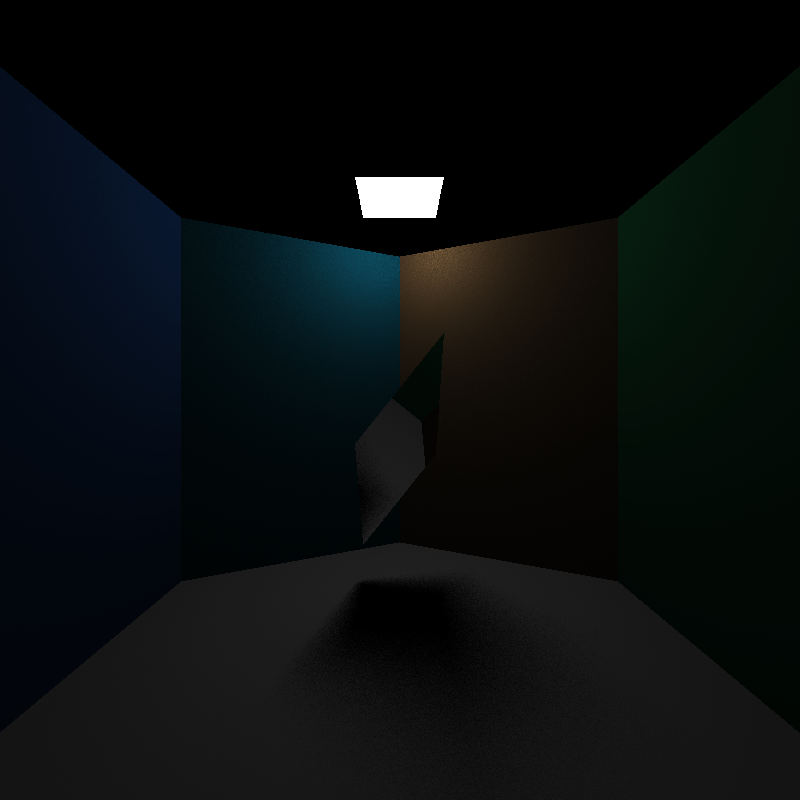
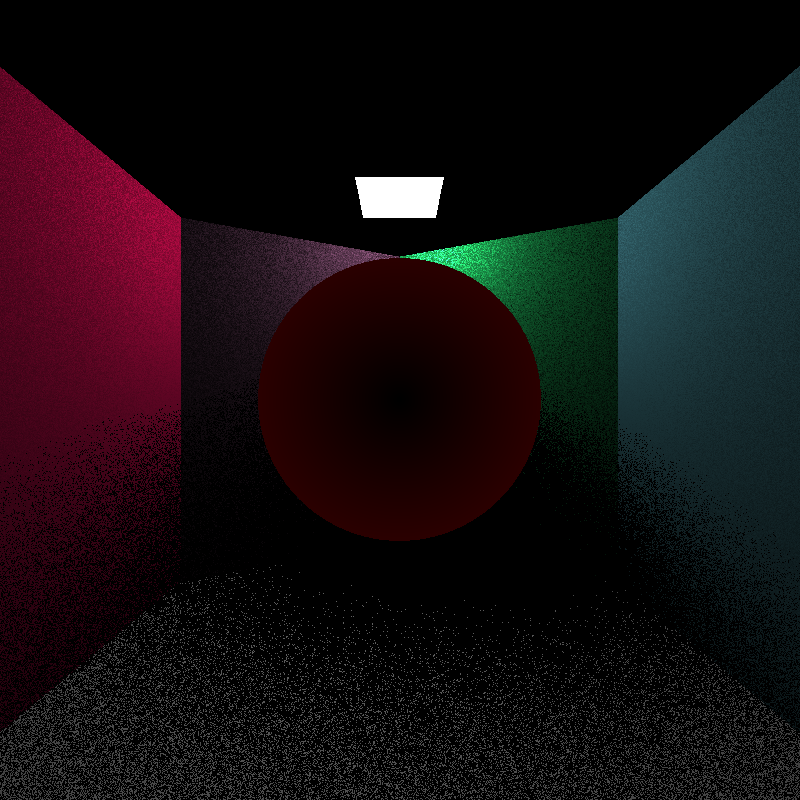
Tried to fix normals of pheres but something is off...

diff --git a/geometry/Sphere.java b/geometry/Sphere.java
@@ -44,12 +44,14 @@ public class Sphere extends Geometry {
     }
 
     @Override
-    public boolean checkIntersect(Vertex rayOrigin, Ray ray,Vertex outIntersectionPoint) {
-        return MollerTrumbore.rayIntersectsSphere(rayOrigin, ray, this, outIntersectionPoint);
+    public boolean checkIntersect(Vertex rayOrigin, Ray ray,Vertex _outIntersectionPoint) {
+       
+        return MollerTrumbore.rayIntersectsSphere(rayOrigin, ray, this, _outIntersectionPoint);
+       
     }
     
     public Vector3d getNormal(Vertex pointOfIntersection) {
-        return pointOfIntersection.CreateEdge(this.centerPosition).norm();
+        return pointOfIntersection.add(centerPosition).CreateEdge(centerPosition).norm();
     }
 
     @Override
@@ -63,77 +65,78 @@ public class Sphere extends Geometry {
         return false;
     }
 
-    @Override
-    public ColorRGB calculateDirectLight(Light LightSource, Vertex pointOFIntersection, int nrShadowRays,ArrayList<Geometry> sceneObjects) {
-        int shadowRays = 1;
-        // var q = u * ( v1 - v0) + v * (v2 - v0);
+   
+    // public ColorRGB calculateDirectLight(Light LightSource, Vertex pointOFIntersection, int nrShadowRays,ArrayList<Geometry> sceneObjects) {
+    //     System.out.println("fel cDL");
+    //     int shadowRays = 1;
+    //     // var q = u * ( v1 - v0) + v * (v2 - v0);
     
-        ColorRGB L = new ColorRGB(0, 0, 0);
-        ColorRGB Ld = new ColorRGB(0, 0, 0);
+    //     ColorRGB L = new ColorRGB(0, 0, 0);
+    //     ColorRGB Ld = new ColorRGB(0, 0, 0);
     
-        Vector3d edge1 = LightSource.v2.CreateEdge(LightSource.v1);
-        Vector3d edge2 = LightSource.v3.CreateEdge(LightSource.v1);
+    //     Vector3d edge1 = LightSource.v2.CreateEdge(LightSource.v1);
+    //     Vector3d edge2 = LightSource.v3.CreateEdge(LightSource.v1);
     
-        // float A = glm::length(glm::cross(v1 - v0, v3 - v0));
-        double LightArea = Maths.crossProduct(edge1, edge2).vectorLength();
+    //     // float A = glm::length(glm::cross(v1 - v0, v3 - v0));
+    //     double LightArea = Maths.crossProduct(edge1, edge2).vectorLength();
     
-        for (int i = 0; i < shadowRays; i++) {
-            // random numbers
-            double u = new Random().nextDouble();
-            double v = new Random().nextDouble();
+    //     for (int i = 0; i < shadowRays; i++) {
+    //         // random numbers
+    //         double u = new Random().nextDouble();
+    //         double v = new Random().nextDouble();
     
-            // edges of the lightsource
-            Vector3d e1 = LightSource.v2.CreateEdge(LightSource.v1).Multiply(u);
-            Vector3d e2 = LightSource.v3.CreateEdge(LightSource.v1).Multiply(v);
-            Vector3d summedVector = e1.add(e2);
-            Vertex yi = LightSource.v1.translate(summedVector);
+    //         // edges of the lightsource
+    //         Vector3d e1 = LightSource.v2.CreateEdge(LightSource.v1).Multiply(u);
+    //         Vector3d e2 = LightSource.v3.CreateEdge(LightSource.v1).Multiply(v);
+    //         Vector3d summedVector = e1.add(e2);
+    //         Vertex yi = LightSource.v1.translate(summedVector);
     
-            // float A = glm::length(glm::cross(v1 - v0, v3 - v0));
+    //         // float A = glm::length(glm::cross(v1 - v0, v3 - v0));
     
-            // Disnans mellan intersection point och ljuskällan
-            // sk är vectorn mellan ljus och puntk
-            // di är distansen mellan di = yi - x
+    //         // Disnans mellan intersection point och ljuskällan
+    //         // sk är vectorn mellan ljus och puntk
+    //         // di är distansen mellan di = yi - x
 
             
     
-            Vector3d di = pointOFIntersection.CreateEdge(yi).invers();
+    //         Vector3d di = pointOFIntersection.CreateEdge(yi).invers();
             
-            //test
+    //         //test
 
             
-            double abs_di = Math.abs(di.vectorLength());
+    //         double abs_di = Math.abs(di.vectorLength());
     
-            // eventuellt "-" på sk
-            // cos(omegax) = Nx * di / ||di||
-            // cos(omegay) = Ny * di / ||di||
-            // TODO - fixa normal för triangel
-            double cosOmegax = Maths.dotProduct(di.Multiply(1 / abs_di), this.getNormal(pointOFIntersection));
-            // TODO - varför fungerar det bara utan negativt tecken i formel nedan?
-            double cosOmegay = Maths.dotProduct(di.Multiply(1 / abs_di), LightSource.normal);
+    //         // eventuellt "-" på sk
+    //         // cos(omegax) = Nx * di / ||di||
+    //         // cos(omegay) = Ny * di / ||di||
+    //         // TODO - fixa normal för triangel
+    //         double cosOmegax = Maths.dotProduct(di.Multiply(1 / abs_di), this.getNormal(pointOFIntersection));
+    //         // TODO - varför fungerar det bara utan negativt tecken i formel nedan?
+    //         double cosOmegay = Maths.dotProduct(di.Multiply(1 / abs_di), LightSource.normal);
 
-            //NY DEL FÖR DIRECT LIGHT SFÄR. MEN LJUSET BORDE INTE KUNNA GLIDA ÖVER EKVATORN FÖR SFÄREN
-            //SE ÖVER
-            if(Maths.dotProduct(di, normal)> 0)
-            {
-                L= L.add(this.color.mult((Maths.dotProduct(di, normal)) / (abs_di * abs_di)));
-            }
-            else{
-                L= L.add(this.color.mult(0));
-            }
+    //         //NY DEL FÖR DIRECT LIGHT SFÄR. MEN LJUSET BORDE INTE KUNNA GLIDA ÖVER EKVATORN FÖR SFÄREN
+    //         //SE ÖVER
+    //         if(Maths.dotProduct(di, normal)> 0)
+    //         {
+    //             L= L.add(this.color.mult((Maths.dotProduct(di, normal)) / (abs_di * abs_di)));
+    //         }
+    //         else{
+    //             L= L.add(this.color.mult(0));
+    //         }
 
             
             
           
     
-        }
+    //     }
     
-        Ld = L.mult(LightArea / (Math.PI *shadowRays));
+    //     Ld = L.mult(LightArea / (Math.PI *shadowRays));
         
-        // if (!this->isVisible(shadowRay)) Vk = 0.0f;
-        // else Vk = 1.0f;
+    //     // if (!this->isVisible(shadowRay)) Vk = 0.0f;
+    //     // else Vk = 1.0f;
     
-        return Ld.mult(2);
-    }
+    //     return Ld.mult(2);
+    // }
     
 
     

diff --git a/geometry/Geometry.java b/geometry/Geometry.java
@@ -9,7 +9,7 @@ import utils.*;
 
 public class Geometry {
 
-  public double reflectCoeff = 0.8;
+  public double reflectCoeff = 0.2;
 
   public ColorRGB color = new ColorRGB();
 
@@ -89,6 +89,7 @@ public class Geometry {
         // Disnans mellan intersection point och ljuskällan
         // sk är vectorn mellan ljus och puntk
         // di är distansen mellan di = yi - x
+    
 
         
         Vector3d di = pointOFIntersection.CreateEdge(yi);
@@ -98,23 +99,26 @@ public class Geometry {
         // cos(omegax) = Nx * di / ||di||
         // cos(omegay) = Ny * di / ||di||
         // TODO - fixa normal för triangel
-        double cosOmegax = Maths.dotProduct(di.Multiply(1 / abs_di), this instanceof Sphere ? this.getNormal(pointOFIntersection) : this.getNormal());
-        double cosOmegay = -Maths.dotProduct(di.Multiply(1 / abs_di), LightSource.normal);
+        // double cosOmegax = Maths.dotProduct(di.Multiply(1 / abs_di), this instanceof Sphere ? this.getNormal(pointOFIntersection) : this.getNormal());
+        // double cosOmegay = -Maths.dotProduct(di.Multiply(1 / abs_di), LightSource.normal);
 
         //Testar med dot approachen, här är den gamla ifall vi vill gå tillbaka till den :P 
        // L = L.add(this.color.mult((cosOmegax * cosOmegay) / (abs_di * abs_di)));
 
        //Något är lurt 
-       normal = this.getNormal();
+       this.setNormal(this instanceof Sphere ? this.getNormal(pointOFIntersection).invers() : this.getNormal());
        Ray shadowRay = new Ray(yi,di);
        
-        Double isVis = 1.0;
+        double isVis = 1.0;
 
     
         if(!isVisible(shadowRay, sceneObjects)){
           isVis = 0.0;
+        
+          
           // L = new ColorRGB(1,0,0);
           // break;
+          
           
         }
 
@@ -127,7 +131,7 @@ public class Geometry {
     // if (!this->isVisible(shadowRay)) Vk = 0.0f;
     // else Vk = 1.0f;
 
-    return Ld.mult(1);
+    return Ld.mult(3);
 }
 
 public void setMaterial(Material material) {
@@ -140,16 +144,28 @@ public void setMaterial(Material material) {
 //VERKAR INTE FUNGERA 
 // på något sett så missar den intersecten eller något... 
 public boolean isVisible(Ray shadowRay, ArrayList<Geometry> sceneObjects ){
+  Vertex pointOnSphere = shadowRay.start.translate(shadowRay.dir);
+  
+  if (pointOnSphere.z<0 && this instanceof Sphere){
+   // System.out.println("hej");
+  }
 
-  Double distance = Math.abs(shadowRay.dir.vectorLength());
+  
+  double distance = Math.abs(shadowRay.dir.vectorLength());
 
-  Vertex intPoint = new Vertex();
-  Double minDist = 1000.0;
+  
+  
+  double minDist = 1000.0;
   shadowRay.dir = shadowRay.dir.norm();
+
+
+  
 
   for (int i = 0; i < sceneObjects.size(); i++) {
     Geometry obj = sceneObjects.get(i);
+    Vertex intPoint = new Vertex();
     //VI KANSKE SKA TA IN ETT NYTT VÄRDE RAY START?
+
       if (obj.checkIntersect(shadowRay.start, shadowRay, intPoint)){
         //System.out.println("vi intersektar med något");
         
@@ -160,8 +176,10 @@ public boolean isVisible(Ray shadowRay, ArrayList<Geometry> sceneObjects ){
 
   }
 
+ 
 
-  if (minDist+0.5 <distance) 
+
+  if (minDist+0.005 < distance) 
   {
     
     return false;}

diff --git a/scene/Camera.java b/scene/Camera.java
@@ -58,14 +58,16 @@ public class Camera {
 
   public void followRay(Scene scene, Vertex currentPoint, Ray currentRay, Vertex outIntersectionPoint){
 
-    //testing max value of direct light
-    ColorRGB test = new ColorRGB();
 
             for (int i = 0; i < scene.sceneObjects.size(); i++) {
           Geometry obj = scene.sceneObjects.get(i);
+          Vertex outPoint = new Vertex();
           if (
-            obj.checkIntersect(currentPoint, currentRay, outIntersectionPoint)
+            obj.checkIntersect(currentPoint, currentRay, outPoint)
           ) {
+
+            //skickar vidare intersectionpointen
+            outIntersectionPoint.set(outPoint);
 
             // if (obj instanceof Sphere) {
             //   currentRay.rayColor = obj.color;
@@ -82,19 +84,25 @@ public class Camera {
             if (obj.material.type == MaterialType.MIRROR) {
               Ray reflectedRay = obj.bounceRay(
                 currentRay,
-                outIntersectionPoint
+                outPoint
               );
 
-              Vertex pointOfReflection = outIntersectionPoint;
+              Vertex pointOfReflection = outPoint;
 
-              followRay(scene, pointOfReflection, reflectedRay, outIntersectionPoint);
+              followRay(scene, pointOfReflection, reflectedRay, outPoint);
             }
             
 
             else {
-              currentRay.rayColor = obj.calculateDirectLight(scene.light, outIntersectionPoint, 20,scene.sceneObjects);
-              if(currentRay.rayColor.r > test.r){
-                test = new ColorRGB(currentRay.rayColor.r,currentRay.rayColor.g,currentRay.rayColor.b);
+              
+              if (obj instanceof Sphere) {
+                Vector3d normalizedIntersect = obj.getNormal(outPoint);
+          
+                currentRay.rayColor = new ColorRGB(Math.abs(normalizedIntersect.x),0,0);
+                // outIntersectionPoint
+              }
+              else{
+              currentRay.rayColor = obj.calculateDirectLight(scene.light, outPoint, 1,scene.sceneObjects);
               }
             }
            

diff --git a/utils/MollerTrumbore.java b/utils/MollerTrumbore.java
@@ -111,7 +111,7 @@ public class MollerTrumbore {
     Sphere inSphere,
     Vertex outIntersectionPoint
   ){
-
+   
     double b, c, x, d1, d2, d;
 
     double c1, c2, c3, arg;
@@ -123,6 +123,8 @@ public class MollerTrumbore {
     // c1 = D dot D
     // c2 = 2D * (S-C)
     // c3 = (S-C) * (SC)
+
+    rayVector.dir = rayVector.dir.norm();
 
     c1 = Maths.dotProduct(rayVector.dir, rayVector.dir);
     c2 = Maths.dotProduct(rayVector.dir.Multiply(2), rayVector.start.CreateEdge(inSphere.centerPosition));
@@ -143,16 +145,17 @@ public class MollerTrumbore {
 
     // One solution
     else if (arg < EPSILON) {
-       d1 = -(c2 / (2.0 * c1)) + Math.sqrt(arg);
+       d1 = -(c2 + Math.sqrt(arg)) / (2.0 * c1);
        d = d1;
-       outIntersectionPoint = rayVector.start.translate(rayVector.dir).mult(d);
+       // outIntersectionPoint = rayVector.start.translate(rayVector.dir).mult(d);
+       outIntersectionPoint.set(rayVector.start.translate(rayVector.dir).mult(d));
        return true;
     };
 
     
     // Two solutions
-    d1 = -(c2 / (2.0 * c1)) + Math.sqrt(arg);
-	  d2 = -(c2 / (2.0 * c1)) - Math.sqrt(arg);
+    d1 = -(c2 + Math.sqrt(arg)) / (2.0 * c1);
+	  d2 =-(c2 - Math.sqrt(arg)) / (2.0 * c1);
 
     if (d2 > d1) {
       d = d1;
@@ -171,7 +174,8 @@ public class MollerTrumbore {
 
     //Check with distance if we got a hit
 	  if (d < EPSILON || d > 1000.0f) return false;
-	  outIntersectionPoint = rayVector.start.translate(rayVector.dir).mult(d);
+	  // outIntersectionPoint = rayVector.start.translate(rayVector.dir).mult(d);
+    outIntersectionPoint.set(rayVector.start.translate(rayVector.dir).mult(d));
 
     Vector3d normal = outIntersectionPoint.CreateEdge(inSphere.centerPosition).norm();
     inSphere.setNormal((normal));

diff --git a/scene/Scene.java b/scene/Scene.java
@@ -114,9 +114,9 @@ public class Scene {
   );
 
   Sphere firstSphere = new Sphere(
-    new Vertex(9,0,-3.5),
-    3.0,
-    1,1,1
+    new Vertex(11,0,0),
+    4.0,
+    0,0,0
   );
 
   Rectangle lightBlock = new Rectangle(
@@ -162,11 +162,10 @@ public class Scene {
     sceneObjects.add(light);
 
     // firstSphere.setReflectionCoeff(1.0);
-    Material lambertianMaterial = new Material(0.5f, 1,1, MaterialType.LAMBERTIAN);
-    firstSphere.setMaterial(lambertianMaterial);
-    //sceneObjects.add(firstSphere);
+  
+    sceneObjects.add(firstSphere);
     lightBlock.setMaterial(mirror);
-    sceneObjects.add(lightBlock);
+    //sceneObjects.add(lightBlock);
     
   }
 

diff --git a/utils/Vector3d.java b/utils/Vector3d.java
@@ -2,9 +2,9 @@ package utils;
 
 public class Vector3d {
 
-  double x;
-  double y;
-  double z;
+  public double x;
+  public double y;
+  public double z;
 
   public Vector3d(double x, double y, double z) {
     this.x = x;
